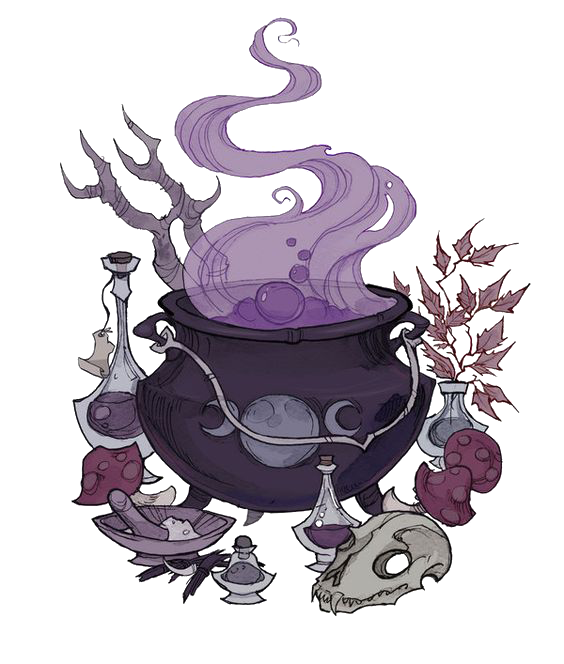
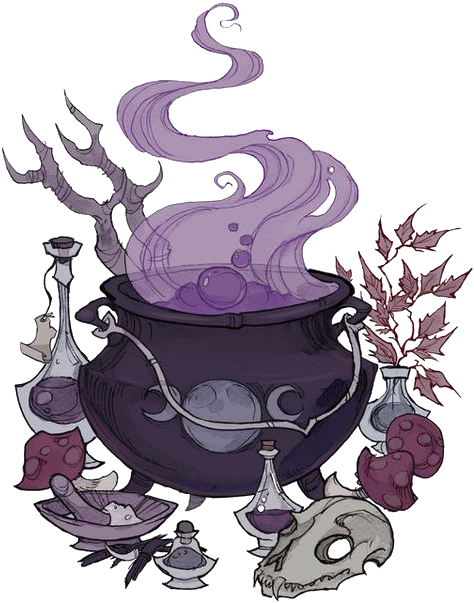
added grid layout for game, styled images

diff --git a/index.html b/index.html
@@ -6,38 +6,64 @@
     <meta http-equiv="X-UA-Compatible" content="ie=edge">
     <link rel="stylesheet" type="text/css" href="assets/css/reset.css" media="screen" />
     <link rel="stylesheet" type="text/css" href="assets/css/style.css" media="screen" />
+    <link href="https://fonts.googleapis.com/css?family=Homemade+Apple|Raleway&display=swap" rel="stylesheet">
     <title>Document</title>
 </head>
 <body>
 <h1>Potion Mixer</h1>
-<p>How to play the game:
-    <ul>
-        <li>Try to add the potion ingredients up to the number of potion.</li>
-        <li>The values of the potion ingredients change each game.</li>
-    </ul>
-</p>
-<div class="game-container">
-    <div id="random-potion">The potion I want is ...</div>
-    <p id="current-number">The current number I have is...</p>
-    <div id="wins-container">
-        <p>Successful potions...</p>
-    </div>
-    <div id="loss-container">
-        <p>These potions didn't go so well...</p>
-    </div>
-    <img src="assets/images/magicLesson.jpg" class="colorHarmony">
-    <div id="ingredients-container">
-        <img id="ingredient-1" class="items" src="#">
-        <p id="ingredient-1-name"></p>
-        <img id="ingredient-2" class="items" src="#">
-        <p id="ingredient-2-name"></p>
-        <img id="ingredient-3" class="items" src="#">
-        <p id="ingredient-3-name"></p>
-        <img id="ingredient-4" class="items" src="#">
-        <p id="ingredient-4-name"></p>
-    </div>
-    <img src="assets/images/cauldron.png">
 
+<div class="game-container">
+    
+
+    <div class="witchClassroom">
+        <img src="assets/images/magicLesson.jpg" class="teacherImage">
+        <div class="speech-bubble-ds speech-position">
+            <div id="random-potion">The potion I want is ...</div>
+            <div class="speech-bubble-ds-arrow"></div>
+        </div>
+    </div>
+
+    <div class="instructions-and-score">
+        <p>How to play the game:
+            <ul>
+                <li>Try to add the potion ingredients up to the number of potion.</li>
+                <li>The values of the potion ingredients change each game.</li>
+            </ul>
+        </p>
+        <div id="wins-container">
+            <p>Successful potions...</p>
+        </div>
+        <div id="loss-container">
+            <p>These potions didn't go so well...</p>
+        </div>
+    </div>
+
+    <div id="ingredients-container">
+        <div id="ingredients-sub-container">
+            <div class="item-contained">
+                <img id="ingredient-1" class="items" src="#">
+                <p id="ingredient-1-name" class="fancy-font"></p>
+            </div>
+            <div class="item-contained">
+                <img id="ingredient-2" class="items" src="#">
+                <p id="ingredient-2-name" class="fancy-font"></p>
+            </div>
+            <div class="item-contained">
+                <img id="ingredient-3" class="items title-font" src="#">
+                <p id="ingredient-3-name" class="fancy-font"></p>
+            </div>
+            <div class="item-contained">
+                <img id="ingredient-4" class="items" src="#">
+                <p id="ingredient-4-name" class="fancy-font"></p>
+            </div>
+        </div>
+    </div>
+
+    <div id="cauldron-container">
+        <img src="assets/images/cauldron.png" class="cauldronStyled">
+        <p id="current-number-title">Current Score</p>
+        <p id="current-number">0</p>
+    </div>
 </div>
 
 <script

diff --git a/assets/css/style.css b/assets/css/style.css
@@ -1,10 +1,136 @@
 
 
-.items {
-    width: 30px;
-    height: 30px;
+.game-container {
+    border: solid 5px black;
+    display: grid;
+    margin: 1rem;
+    grid-template-columns: 30vw 20vw auto;
+    grid-template-rows: 6rem auto;
+    text-align: center;
 }
 
-.colorHarmony {
-    filter: grayscale(40%) hue-rotate(195deg);
+h1 {
+    margin-top: 2rem;
+    font-family: 'Homemade Apple', cursive;
+    font-size: 4rem;
+    text-align: center;  
+}
+.fancy-font {
+ font-family: 'Homemade Apple', cursive;
+}
+
+.body-text {
+    font-family: 'Raleway', sans-serif;
+}
+
+.items {
+    width: 75px;
+    height: 75px;
+}
+
+#cauldron-container {
+    grid-column-start: 3;
+    grid-column-end: 4;
+    grid-row-start: 2;
+    grid-row-end: 3;
+    position: relative;
+    margin-top: 1.5em;
+}
+
+.cauldronStyled {
+    filter: grayscale(40%) hue-rotate(155deg);
+    max-width: 45%;
+}
+
+#current-number {
+    z-index: 2;
+    position: absolute;
+    left: 63%;
+    top: 83%;
+    font-family: 'Homemade Apple', cursive;
+    font-size: 3rem;
+    color: white;
+}
+
+#current-number-title {
+    z-index: 2;
+    position: absolute;
+    left: 59%;
+    top: 77%;
+    font-size: 1.5rem;
+    color: white;
+}
+
+.teacherImage {
+    filter: grayscale(40%);
+    max-width: 100%;
+}
+
+.speech-bubble-ds {
+    background: #F5E5D9;
+    border: 1px solid #543D33;
+    -webkit-border-radius: 4px;
+            border-radius: 4px;
+    -webkit-box-shadow: 4px 4px 0 rgba(0, 0, 0, 0.2);
+            box-shadow: 4px 4px 0 rgba(0, 0, 0, 0.2);
+    margin: 0 auto 40px;
+    max-width: 200px;
+    padding: 15px;
+    position: absolute;
+    top: 20%;
+    left: 35%;
+}
+
+.speech-bubble-ds-arrow {
+    border-left: 21px solid transparent;
+    border-top: 20px solid rgba(0, 0, 0, 0.0);
+    top: 25%;
+    left: -18px;
+    position: absolute;
+}
+.speech-bubble-ds-arrow::before {
+    border-left: 23px solid transparent;
+    border-bottom: 23px solid #543D33;
+    bottom: 2px;
+    content: "";
+    position: absolute;
+    right: 4px;
+}
+.speech-bubble-ds-arrow::after {
+    border-left: 21px solid transparent;
+    border-bottom: 21px solid #F5E5D9;
+    bottom: 4px;
+    content: "";
+    position: absolute;
+    right: 2px;
+}
+
+.witchClassroom {
+    position: relative;
+    grid-column-start: 1;
+    grid-column-end: 2;
+    grid-row-start: 1;
+    grid-row-end: 3;
+}
+
+.instructions-and-score {
+    border: 1px solid black;
+    grid-column-start: 2;
+    grid-column-end: 3;
+    grid-row-start: 1;
+    grid-row-end: 3;
+}
+
+#ingredients-container {
+    grid-column-start: 3;
+    grid-column-end: 4;
+    grid-row-start: 1;
+    grid-row-end: 2;
+
+}
+
+#ingredients-sub-container {
+    display: grid;
+    grid-template-columns: 25% 25% 25% 25%;
+    grid-template-rows: 4rem;
 }

diff --git a/assets/javascript/game.js b/assets/javascript/game.js
@@ -7,6 +7,17 @@ var ingredientsArray = [
     {"name": "Billing's Root", "img":"potions6.png"},
     {"name": "Hemlock Root", "img":"potions7.png"},
     {"name": "Soul Snake", "img":"potions8.png"},
+    {"name": "Coin from a Dead Man's Eye", "img":"items2.png"},
+    {"name": "Danake of Charon", "img":"items3.png"},
+    {"name": "Cursed Lucky Clover", "img":"items8.png"}
+]
+
+var teacherSays = [
+    "Let's make this potion today... ",
+    "I think we need to practice, turn to page 175 for... ",
+    "Okay class, we are going to make this potion... ",
+    "Now we're going to do a more advanced potion today... ",
+    "How about we try making this... "
 ]
 
 
@@ -41,9 +52,11 @@ function shuffle(a) {
         randomPotion = 0;
         currentUserValue = 0;
         var ingredients = shuffle(ingredientsArray);
+        var teacherSaysWhat = shuffle(teacherSays);
+        $("#current-number").html(0);
         randomPotion = Math.floor((Math.random() * 100) + 1);
         $("#random-potion").empty();
-        $("#random-potion").html("The Potion I want is # " + randomPotion);
+        $("#random-potion").html(teacherSaysWhat[0] + "Potion # " + randomPotion);
         console.log(randomPotion);
         //Generate a random potion ingredient 1, assign it a random number value. 
         var item1Index = 0;
@@ -103,6 +116,8 @@ function shuffle(a) {
     function addIngredients (value) {
         var newValue = value + currentUserValue;
         currentUserValue = newValue;
+        $("#current-number").empty();
+        $("#current-number").html(currentUserValue);
         console.log(currentUserValue);
         checkWin();
     }
